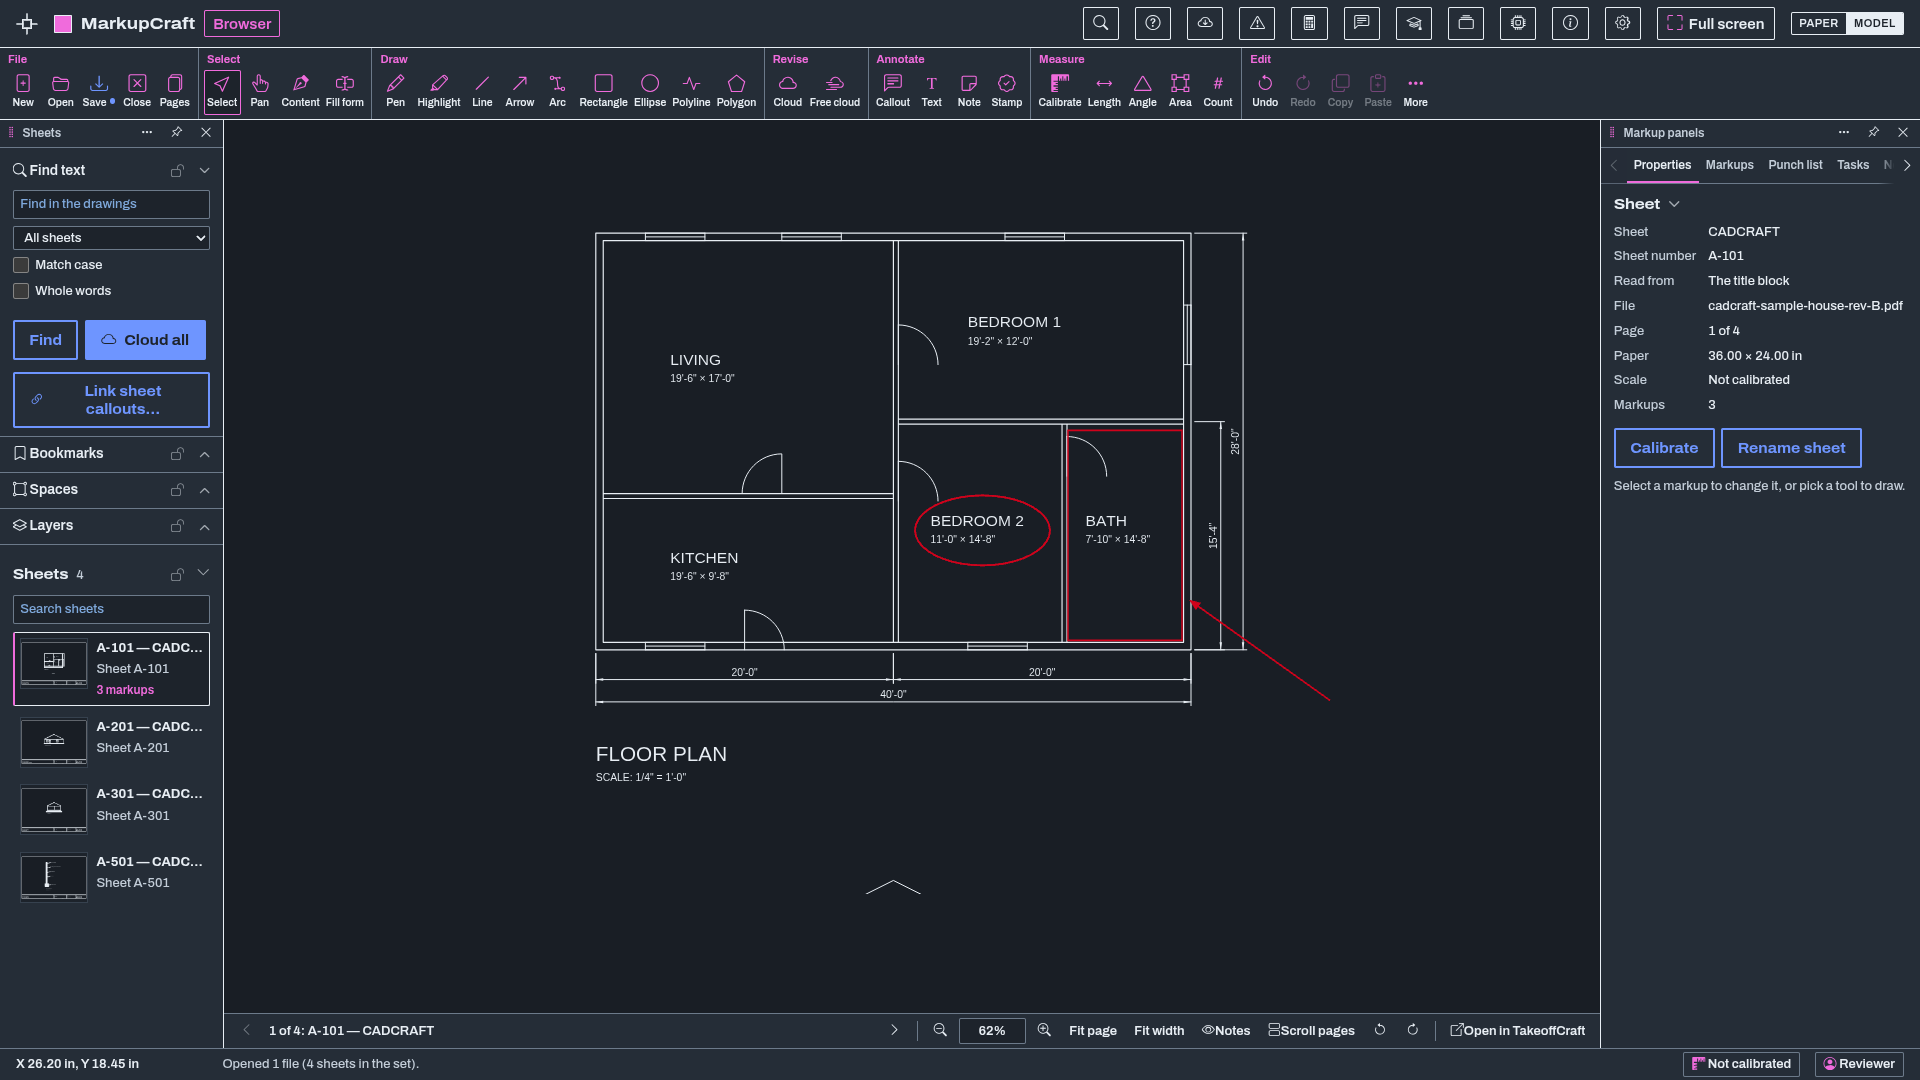
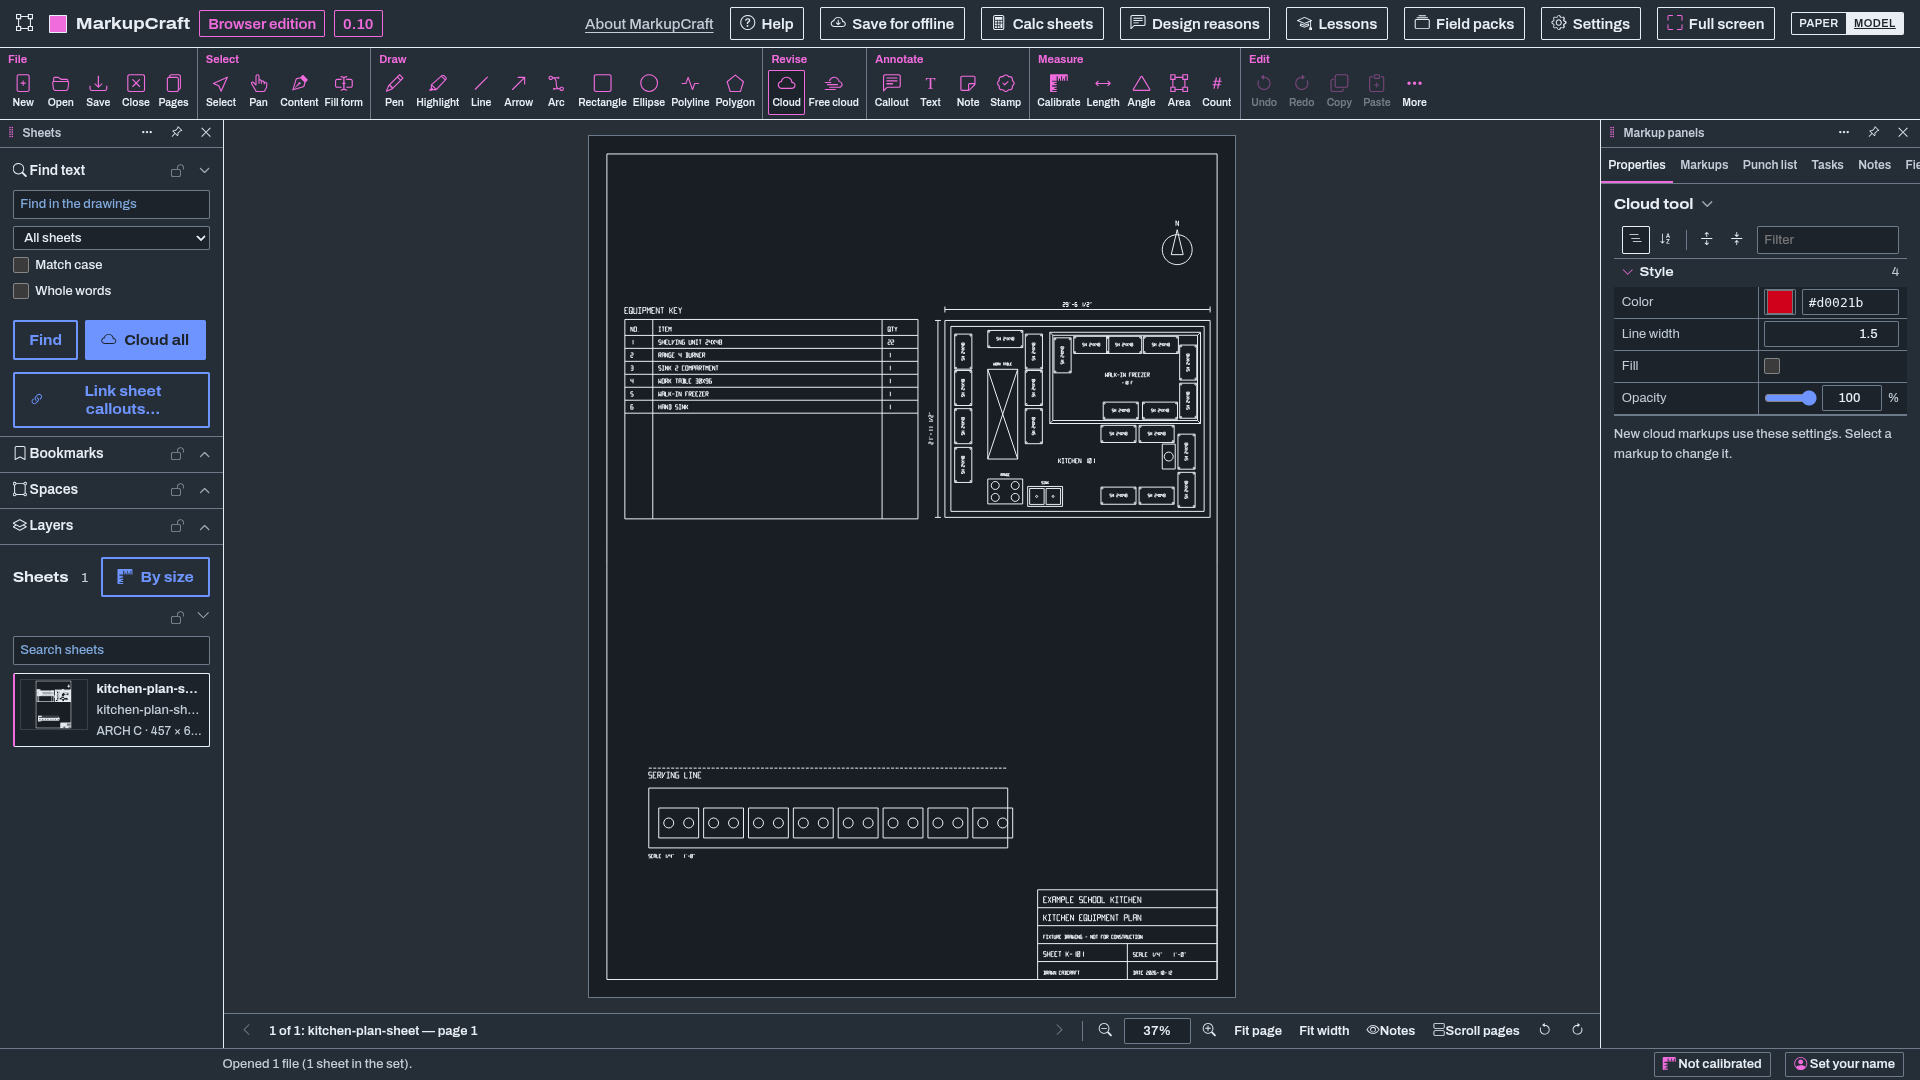
README: 0.10 screenshots (the released 0.10 browser edition, dark theme)

diff --git a/README.md b/README.md
@@ -6,9 +6,9 @@ Red-pen the set without the red pen.
 
 **[Website](https://getcadcraft.com/apps/markupcraft) | [Use it in your browser](https://getcadcraft.com/use/markupcraft) | [Download CadCraft Studio](https://getcadcraft.com/download#studio) | [Help and tutorials](https://getcadcraft.com/tutorials/markupcraft) | [News](https://getcadcraft.com/news) | [Suggest a feature](https://getcadcraft.com/suggest)**
 
-[![MarkupCraft 0.9](screenshots/paper.png)](https://getcadcraft.com/use/markupcraft)
+[![MarkupCraft 0.10](screenshots/paper.png)](https://getcadcraft.com/use/markupcraft)
 
-<sub>MarkupCraft 0.9 in the browser, dark theme. [A second view](screenshots/model.png).</sub>
+<sub>MarkupCraft 0.10 in the browser, dark theme. [A second view](screenshots/model.png).</sub>
 
 MarkupCraft is the drawing review & markup app in the [CadCraft](https://getcadcraft.com) family: Open a PDF plan set, mark it up from a saved tool chest, compare revisions and run punch lists with the whole team.
 
